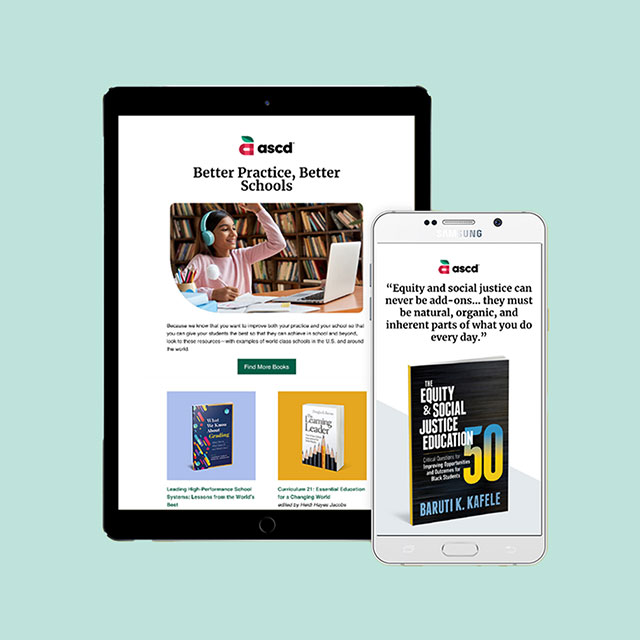
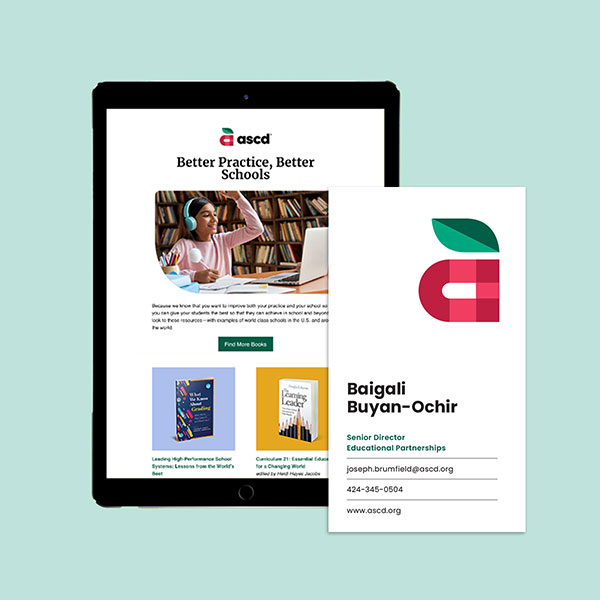
added rebranding book

Changed region(s): [[0.15, 0.12, 0.9, 0.9]]

diff --git a/src/data/images.jsx b/src/data/images.jsx
@@ -81,6 +81,12 @@ import BookProcessASCD from "../assests/steps/Marketing/ASCD/MarketingProcess_AS
 import BookProcessASCD2 from "../assests/steps/Marketing/ASCD/MarketingProcess_ASCD2.jpg";
 import BookProcessASCD3 from "../assests/steps/Marketing/ASCD/MarketingProcess_ASCD3.jpg";
 
+import BookThumbRebranding from "../assests/thumbnails/MarketingThumbnail_Rebranding.png";
+import BookThumbBkgdRebranding from "../assests/thumbBkgd/MarketingThumbnailBkgd_Rebranding.jpg";
+import BookProcessRebranding from "../assests/steps/Marketing/Rebranding/MarketingProcess_Rebranding.jpg";
+import BookProcessRebranding2 from "../assests/steps/Marketing/Rebranding/MarketingProcess_Rebranding2.jpg";
+import BookProcessRebranding3 from "../assests/steps/Marketing/Rebranding/MarketingProcess_Rebranding3.jpg";
+
 import BookThumbSpring from "../assests/thumbnails/MarketingThumbnail_Spring.png";
 import BookThumbBkgdSpring from "../assests/thumbBkgd/MarketingThumbnailBkgd_Spring.jpg";
 import BookProcessSpring from "../assests/steps/Marketing/Spring/MarketingProcess_Spring.jpg";
@@ -166,6 +172,7 @@ import SummerHomepage from "../assests/homepage/Homepg_Summer.jpg";
 import Empower19Homepage from "../assests/homepage/Homepg_Empower19.jpg";
 import HappinessHomepage from "../assests/homepage/Homepg_Happiness.jpg";
 import JapanHomepage from "../assests/homepage/Homepg_Japan.jpg";
+import RebrandingHomepage from "../assests/homepage/Homepg_Rebranding.gif";
 
 export function photoInfo() {
     const LearningSteps = [BookProcessLearning];
@@ -197,6 +204,7 @@ export function photoInfo() {
     const Empower17Steps = [BookProcessEmpower17, BookProcessEmpower172, BookProcessEmpower173];
     const HappinessSteps = [BookProcessHappiness, BookProcessHappiness2, BookProcessHappiness3];
     const JapanSteps = [BookProcessJapan, BookProcessJapan2, BookProcessJapan3];
+    const RebrandingSteps = [BookProcessRebranding, BookProcessRebranding2, BookProcessRebranding3];
     
     const photoMap = {
         "Learning in a New Language": {
@@ -414,6 +422,14 @@ export function photoInfo() {
             altText: "Japan Postcards",
             process: JapanSteps,
             homepage: JapanHomepage
+        },
+        "Rebranding": {
+            thumbnail: BookThumbRebranding,
+            thumbnailWithBackground: BookThumbBkgdRebranding,
+            backgroundColor: "#bee3db",
+            altText: "Rebranding",
+            process: RebrandingSteps,
+            homepage: RebrandingHomepage
         },
     };
     return photoMap;

diff --git a/src/components/Homepage/Homepage.jsx b/src/components/Homepage/Homepage.jsx
@@ -4,8 +4,6 @@ import hello from "../../assests/homepage/Homepg_Intro.jpg";
 import whiteSquare from '../../assests/homepage/Homepg_White.jpg'
 import blueSquare from '../../assests/homepage/Homepg_Blue.jpg'
 
-import phone from "../../assests/homepage/Homepg_Rebranding.gif";
-
 import NavBar from '../NavBars/NavBar';
 import HeaderCarousel from './HeaderCarousel';
 
@@ -43,7 +41,7 @@ export default function Homepage() {
 
 
                 {formatCell("Math Fact Fluency", "col-span-2 row-span-2", source)}
-                <img src={phone} class="row-span-2" style={{height: "100%"}}/>
+                {formatCell("Rebranding", "row-span-2", source)}
                 <div></div>
                 
                 {formatCell("Spring Sourcebook", "col-span-3", source)}
@@ -59,17 +57,17 @@ export default function Homepage() {
                 {formatCell("Summer Catalog", "col-span-2", source)}
                 {formatCell("Five Practices for\n Equity-Focused School Leadership", "", source)}
 
-                {formatCell("Giving Students a Say", "col-span-3 md:col-span-2 row-span-2", source)}
-                {formatCell("The Minimalist Teacher", "col-span-3 md:col-span-2 row-span-2", source)}
+                {formatCell("Giving Students a Say", "col-span-2 row-span-2", source)}
+                {formatCell("The Minimalist Teacher", "col-span-2 row-span-2", source)}
                 {formatCell("Japan Postcards", "col-span-2", source)}
                 {formatCell("The Classroom Behavior Manual", "", source)}
-                <img src={blueSquare} alt="a blue square" class="hidden md:block"/>
+                <img src={blueSquare} alt="a blue square"/>
 
-                <img src={blueSquare} alt="a blue square" class="hidden md:block"/>
+                <img src={blueSquare} alt="a blue square"/>
                 {formatCell("'Be' Ad Series", "col-span-3", source)}
                 {formatCell("Empower19", "", source)}
 
-                <img src={phone} class="row-span-2"/>
+                {formatCell("Rebranding", "row-span-2", source)}
 
                 {formatCell("Spring Sourcebook", "col-span-2", source)}
                 {formatCell("Math Fact Fluency", "", source)}
